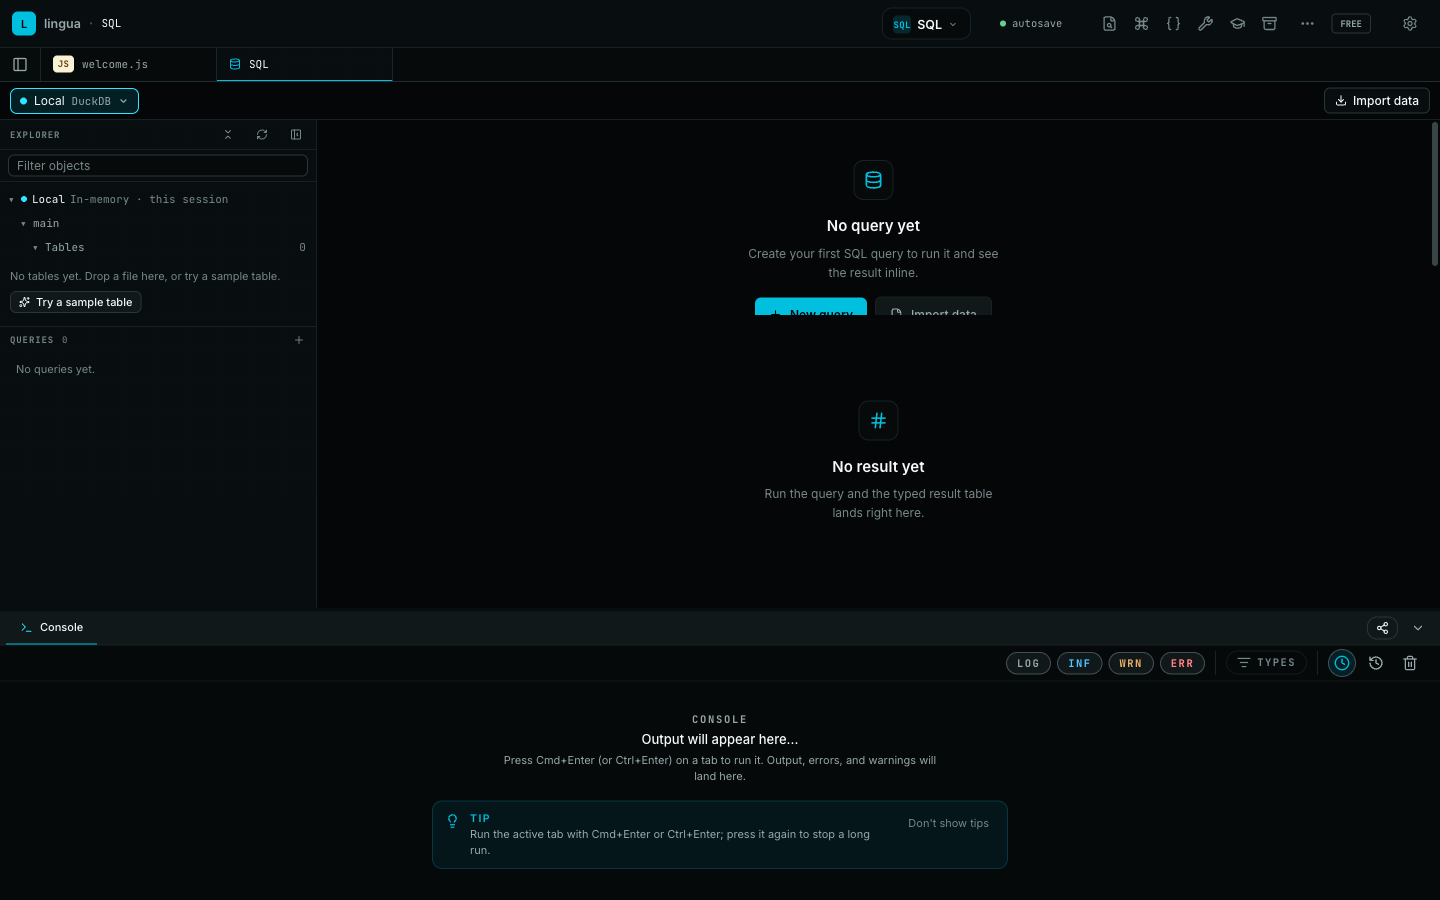
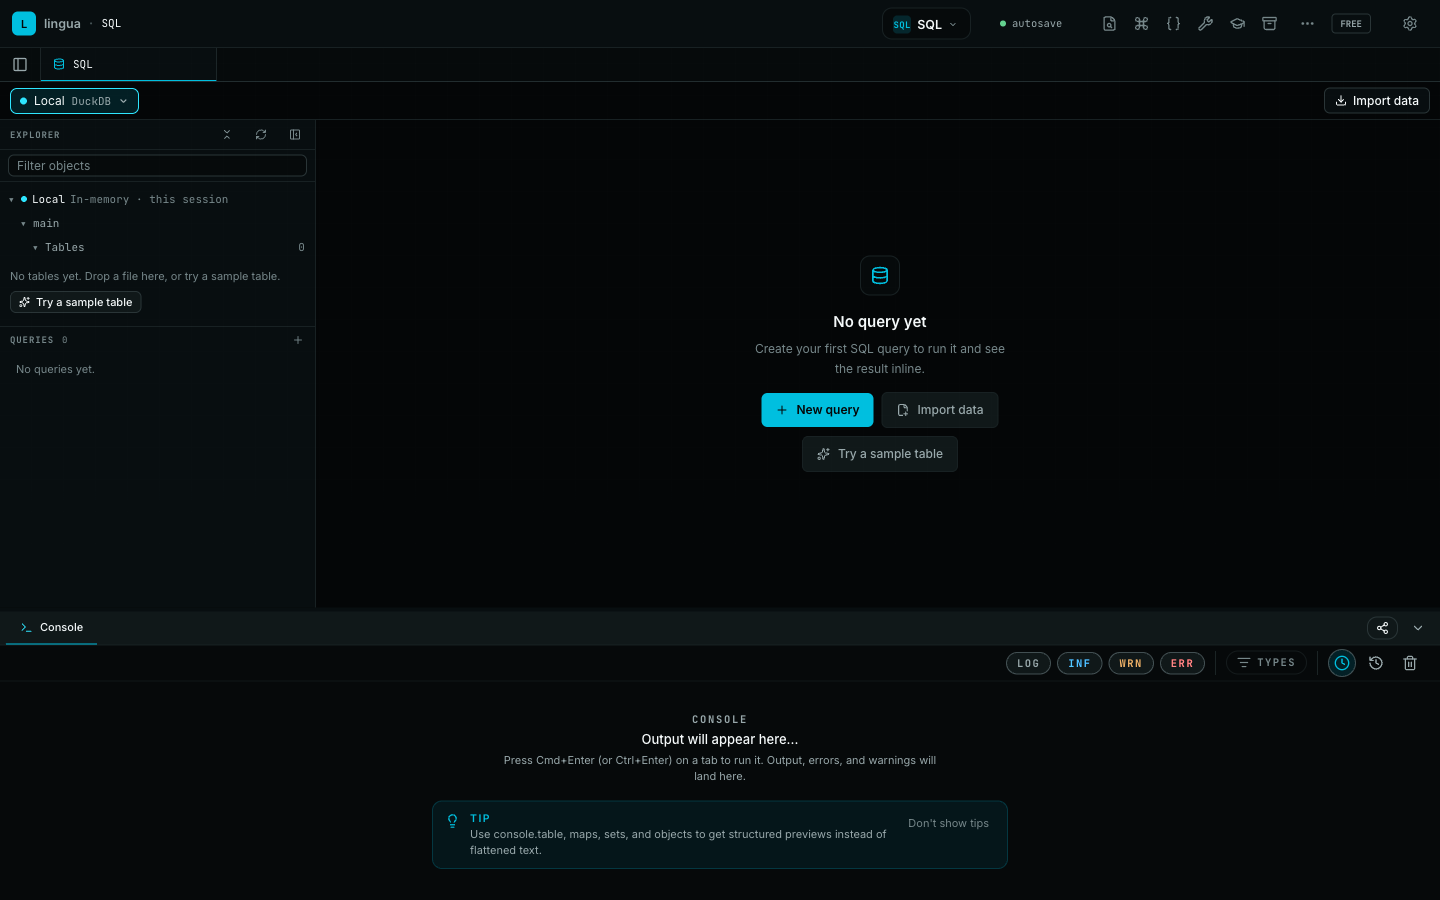
fix(sql): give the empty SQL tab the whole area so its actions are not cut off
- With no query and no opened table, the empty state fills the editor and results area instead of a 40 percent editor pane above an empty results pane
- The empty state scrolls when the window is still too short, so New query, Import data and Try a sample table stay reachable
- A table opened from the Explorer before any query exists still shows its rows under the empty editor
- The after captures of the empty SQL tab are retaken

Changelog: none

diff --git a/src/renderer/components/SqlWorkspace/SqlEmptyState.tsx b/src/renderer/components/SqlWorkspace/SqlEmptyState.tsx
@@ -32,59 +32,61 @@ export function SqlEmptyState({
   return (
     <div
       data-testid="sql-workspace-empty"
-      className="grid h-full place-items-center px-6 py-10"
+      className="h-full overflow-y-auto"
     >
-      <EmptyState
-        icon={<Database size={19} aria-hidden="true" />}
-        title={t('sqlWorkspace.empty.title')}
-        description={t('sqlWorkspace.empty.body')}
-        action={
-          <div className="flex flex-wrap items-center justify-center gap-2">
-            <button
-              type="button"
-              onClick={onCreate}
-              data-testid="sql-workspace-empty-create"
-              className="focus-ring inline-flex items-center gap-2 rounded-md bg-accent px-3.5 py-2 text-body-sm font-semibold text-fg-on-accent transition-colors hover:bg-accent-hover"
-            >
-              <Plus size={13} aria-hidden="true" />
-              {t('sqlWorkspace.empty.cta')}
-            </button>
-            <button
-              type="button"
-              onClick={() => inputRef.current?.click()}
-              data-testid="sql-workspace-empty-import"
-              className="focus-ring inline-flex items-center gap-2 rounded-md border border-border-subtle bg-bg-panel-alt px-3.5 py-2 text-body-sm font-medium text-fg-muted transition-colors hover:border-border-strong hover:bg-bg-panel hover:text-fg-base"
-            >
-              <FilePlus2 size={13} aria-hidden="true" />
-              {t('sqlWorkspace.import.button')}
-            </button>
-            {onTrySample ? (
+      <div className="grid min-h-full place-items-center px-6 py-6">
+        <EmptyState
+          icon={<Database size={19} aria-hidden="true" />}
+          title={t('sqlWorkspace.empty.title')}
+          description={t('sqlWorkspace.empty.body')}
+          action={
+            <div className="flex flex-wrap items-center justify-center gap-2">
               <button
                 type="button"
-                onClick={onTrySample}
-                disabled={isCreatingSample}
-                data-testid="sql-workspace-empty-sample"
-                className="focus-ring inline-flex items-center gap-2 rounded-md border border-border-subtle bg-bg-panel-alt px-3.5 py-2 text-body-sm font-medium text-fg-muted transition-colors hover:border-border-strong hover:bg-bg-panel hover:text-fg-base disabled:opacity-40"
+                onClick={onCreate}
+                data-testid="sql-workspace-empty-create"
+                className="focus-ring inline-flex items-center gap-2 rounded-md bg-accent px-3.5 py-2 text-body-sm font-semibold text-fg-on-accent transition-colors hover:bg-accent-hover"
               >
-                <Sparkles size={13} aria-hidden="true" />
-                {t('sqlWorkspace.sample.cta')}
+                <Plus size={13} aria-hidden="true" />
+                {t('sqlWorkspace.empty.cta')}
               </button>
-            ) : null}
-            <input
-              ref={inputRef}
-              type="file"
-              accept={SQL_IMPORT_FILE_ACCEPT}
-              data-testid="sql-workspace-empty-import-input"
-              className="hidden"
-              onChange={(event) => {
-                const file = event.target.files?.[0];
-                if (file) onImportFile(file);
-                event.target.value = '';
-              }}
-            />
-          </div>
-        }
-      />
+              <button
+                type="button"
+                onClick={() => inputRef.current?.click()}
+                data-testid="sql-workspace-empty-import"
+                className="focus-ring inline-flex items-center gap-2 rounded-md border border-border-subtle bg-bg-panel-alt px-3.5 py-2 text-body-sm font-medium text-fg-muted transition-colors hover:border-border-strong hover:bg-bg-panel hover:text-fg-base"
+              >
+                <FilePlus2 size={13} aria-hidden="true" />
+                {t('sqlWorkspace.import.button')}
+              </button>
+              {onTrySample ? (
+                <button
+                  type="button"
+                  onClick={onTrySample}
+                  disabled={isCreatingSample}
+                  data-testid="sql-workspace-empty-sample"
+                  className="focus-ring inline-flex items-center gap-2 rounded-md border border-border-subtle bg-bg-panel-alt px-3.5 py-2 text-body-sm font-medium text-fg-muted transition-colors hover:border-border-strong hover:bg-bg-panel hover:text-fg-base disabled:opacity-40"
+                >
+                  <Sparkles size={13} aria-hidden="true" />
+                  {t('sqlWorkspace.sample.cta')}
+                </button>
+              ) : null}
+              <input
+                ref={inputRef}
+                type="file"
+                accept={SQL_IMPORT_FILE_ACCEPT}
+                data-testid="sql-workspace-empty-import-input"
+                className="hidden"
+                onChange={(event) => {
+                  const file = event.target.files?.[0];
+                  if (file) onImportFile(file);
+                  event.target.value = '';
+                }}
+              />
+            </div>
+          }
+        />
+      </div>
     </div>
   );
 }

diff --git a/tests/components/SqlWorkspace/SqlWorkspacePanel.test.tsx b/tests/components/SqlWorkspace/SqlWorkspacePanel.test.tsx
@@ -168,10 +168,11 @@ afterEach(() => {
 });
 
 describe('SqlWorkspacePanel', () => {
-  it('renders the empty state when no query is selected', () => {
+  it('gives the empty state the whole area when there is no query or opened table', () => {
     render(<SqlWorkspacePanel />);
-    expect(screen.getByTestId('sql-workspace-panel')).toBeTruthy();
-    // No active query → empty title in the editor slot.
+    expect(screen.getByTestId('sql-workspace-empty')).toBeTruthy();
+    expect(screen.queryByTestId('sql-result-preview')).toBeNull();
+    expect(screen.queryByTestId('sql-query-editor')).toBeNull();
     expect(screen.getByTestId('sql-query-list')).toBeTruthy();
   });
 
@@ -700,6 +701,16 @@ describe('SqlWorkspacePanel — opening tables from the Explorer', () => {
       terminate: async () => undefined,
     };
   }
+
+  it('shows the results of a table opened before any query exists', async () => {
+    __setDuckDbEngineFactoryForTests(() => Promise.resolve(tablesEngine(Promise.resolve())));
+    const user = userEvent.setup();
+    render(<SqlWorkspacePanel />);
+    await user.click(screen.getByTestId('sql-explorer-refresh'));
+    await user.click(await screen.findByText('fast'));
+    await waitFor(() => expect(screen.getByTestId('sql-result-strip')).toBeTruthy());
+    expect(screen.getByTestId('sql-workspace-empty')).toBeTruthy();
+  });
 
   it('keeps the last table opened when an earlier open finishes later', async () => {
     let release!: () => void;

diff --git a/src/renderer/components/SqlWorkspace/SqlWorkspacePanel.tsx b/src/renderer/components/SqlWorkspace/SqlWorkspacePanel.tsx
@@ -559,7 +559,19 @@ export function SqlWorkspacePanel(_props: SqlWorkspacePanelProps = {}) {
     </SqlExplorer>
   );
 
-  const main = (
+  const emptyState = (
+    <SqlEmptyState
+      onCreate={() => handleCreate()}
+      onImportFile={(file) => handleStartImport(file, 'picker')}
+      onTrySample={() => void handleTrySample()}
+      isCreatingSample={isCreatingSample}
+    />
+  );
+
+  // With nothing to edit or show, the empty state gets the whole area instead of a split.
+  const main = !activeQuery && !tablePreview ? (
+    emptyState
+  ) : (
     <Group
       orientation="vertical"
       defaultLayout={mainLayout.defaultLayout}
@@ -585,12 +597,7 @@ export function SqlWorkspacePanel(_props: SqlWorkspacePanelProps = {}) {
             }
           />
         ) : (
-          <SqlEmptyState
-            onCreate={() => handleCreate()}
-            onImportFile={(file) => handleStartImport(file, 'picker')}
-            onTrySample={() => void handleTrySample()}
-            isCreatingSample={isCreatingSample}
-          />
+          emptyState
         )}
       </Panel>
       <ResizeHandle orientation="horizontal" />
